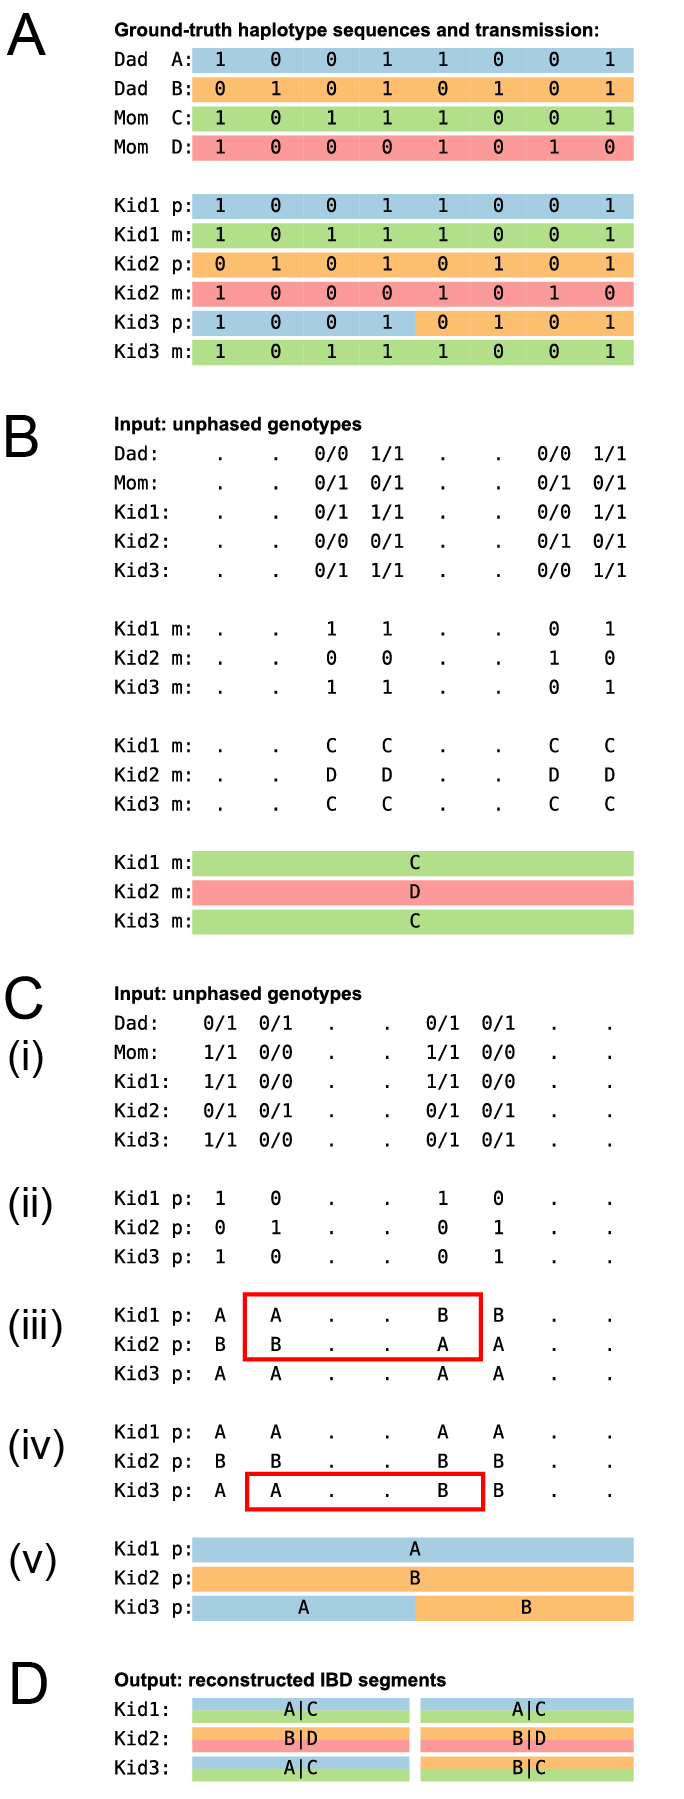
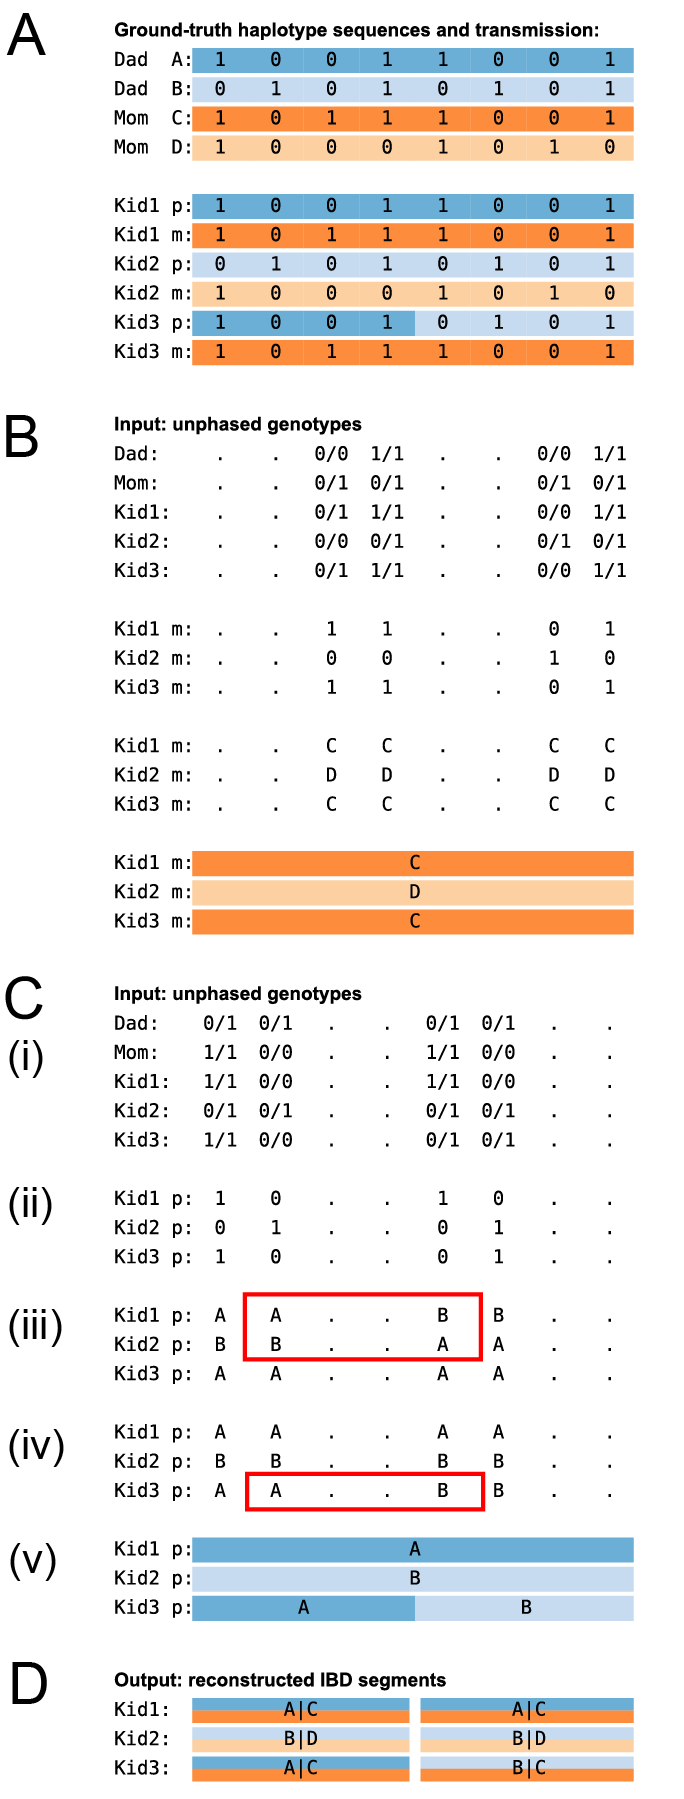
fig2: rerender on blue/orange palette; recombination caption fix
Fig 2 picks up the new HAP_PALETTE (medium/light blue for dad's A/B,
medium/light orange for mom's C/D) introduced in the prior fig1 commit.
The caption referenced the old palette explicitly — "Kid3's paternal
row switching from A (blue) to B (orange) at the recombination
breakpoint" — which is wrong under the new scheme (both A and B are
now blue). Updated to "A (dark blue) to B (light blue)" so the visual
cue for the recombination switch is shade-based and accurate. The same
stale comment was also fixed in the fig2.py docstring.

diff --git a/manuscript/fig2.py b/manuscript/fig2.py
@@ -14,7 +14,7 @@ stacks three panels with aligned columns:
      perform_flips_in_place step (fig4_1), which is a no-op on the
      maternal side and so is omitted there. A bottom track shows the
      ground-truth paternal haplotype (A/B); Kid3's row switches from A
-     (blue) to B (orange) at the paternal recombination.
+     (dark blue) to B (light blue) at the paternal recombination.
 
 Informative sites for each panel are the columns whose top-row cells
 are non-`.`. The trailing simulated site is dropped. PDFs are kept as

diff --git a/manuscript/fig2.md b/manuscript/fig2.md
@@ -1,3 +1,3 @@
 <img src="fig2.png" alt="Figure 2" width="350" align="left" style="margin-right: 1em;">
 
-**Figure 2. Tracking the transmission of haplotypes in a nuclear family.** **(A)** Ground truth — the haplotype sequences of the four founders, the two phased homologs that each kid inherited, and the single paternal recombination that occurred during transmission. Panels B–D below take only the unphased VCF genotypes as input and reconstruct, end-to-end, both the per-kid haplotype assignments and the recombination event shown here; panel D should be read as a direct reconstruction of panel A. The four founder haplotypes (Dad A, Dad B, Mom C, Mom D) are drawn as 0/1 cells (0 = REF allele at an SNV, 1 = ALT allele), followed by each kid's two phased homologs (paternal "p" row above maternal "m" row), with every cell colored by the founder haplotype it was inherited from. Kid3's paternal row switches from A to B mid-locus, marking a paternal recombination. **(B)** Maternal-side reconstruction from unphased data. Top: the unphased VCF genotypes for all five individuals, restricted to mom-informative sites (sites where mom is heterozygous and dad is homozygous). Middle-top: the raw maternally inherited allele extracted at each informative site. For example, if dad is 0/0 while mom is 0/1, then any child that also carries a 1 (Kid1 and Kid3 in this example) must have inherited mom’s 1-carrying homolog. Middle-bottom: at each informative site, partition kids by parental homologs, assigning the letter “C” to the majority class and “D” to the minority class. Bottom: Runs of identical letters across sites are collapsed into a single maternal IBD (Identity-By-Descent) segment — a contiguous region across which each kid's maternal haplotype assignment is constant — that each kid inherited. Compare with the ground truth in panel A. **(C)** Paternal-side reconstruction. Top three tables (i - iii) mirror those in panel B, except restricted to dad-informative sites and labelled A/B (majority/minority allele at each site). The red rectangle highlights two putative crossovers that occur at the same locus in two independent meioses. Given the low likelihood of this event (≪1 crossover/Mb/meiosis), we swap labels among kids at the informative sites after the crossover location (thereby preserving the partitioning established at those sites), yielding the more likely scenario of a single crossover among the three kids (red rectangle in iv). The reconstruction in (v) collapses runs of identical letters across sites into per-kid paternal IBD segments — contiguous regions across which each kid's paternal haplotype assignment is constant — and shows Kid3's paternal row switching from A (blue) to B (orange) at the recombination breakpoint, recovering the ground truth shown in panel A. **(D)** Bilateral IBD segments. For each kid, the parent-specific IBD segments from panels B and C are intersected to form bilateral IBD segments: contiguous regions across which both the paternal and maternal haplotype assignments are constant. Each segment is drawn as a labelled rectangle whose top half is filled with the paternal-letter colour and bottom half with the maternal-letter colour, with the founder-haplotype pair (e.g. "A|C") centred. A colour change in either half of any kid's row marks a bilateral-segment boundary that is registered across all three kids, so Kid3's paternal recombination splits every row at the same locus into two adjacent rectangles of identical width — Kid3 transitions from "A|C" to "B|C" while Kid1 ("A|C") and Kid2 ("B|D") repeat their pair across both segments. Aligning the segment boundaries this way makes explicit that "IBD segment" denotes the same contiguous region for every kid, a convention reused without redefinition by Fig 3E. Panel D thereby recovers, from unphased VCF genotypes alone, the per-kid haplotype transmission and the paternal recombination drawn as ground truth in panel A. **Conventions used throughout the manuscript.** In any two-stripe block label, the pipe (`|`) separates the paternal founder (left) from the maternal founder (right); correspondingly, the top stripe of the rectangle is filled with the paternal founder's colour (A or B) and the bottom stripe with the maternal founder's colour (C or D). These conventions are reused, without redefinition, by Fig 4.
+**Figure 2. Tracking the transmission of haplotypes in a nuclear family.** **(A)** Ground truth — the haplotype sequences of the four founders, the two phased homologs that each kid inherited, and the single paternal recombination that occurred during transmission. Panels B–D below take only the unphased VCF genotypes as input and reconstruct, end-to-end, both the per-kid haplotype assignments and the recombination event shown here; panel D should be read as a direct reconstruction of panel A. The four founder haplotypes (Dad A, Dad B, Mom C, Mom D) are drawn as 0/1 cells (0 = REF allele at an SNV, 1 = ALT allele), followed by each kid's two phased homologs (paternal "p" row above maternal "m" row), with every cell colored by the founder haplotype it was inherited from. Kid3's paternal row switches from A to B mid-locus, marking a paternal recombination. **(B)** Maternal-side reconstruction from unphased data. Top: the unphased VCF genotypes for all five individuals, restricted to mom-informative sites (sites where mom is heterozygous and dad is homozygous). Middle-top: the raw maternally inherited allele extracted at each informative site. For example, if dad is 0/0 while mom is 0/1, then any child that also carries a 1 (Kid1 and Kid3 in this example) must have inherited mom’s 1-carrying homolog. Middle-bottom: at each informative site, partition kids by parental homologs, assigning the letter “C” to the majority class and “D” to the minority class. Bottom: Runs of identical letters across sites are collapsed into a single maternal IBD (Identity-By-Descent) segment — a contiguous region across which each kid's maternal haplotype assignment is constant — that each kid inherited. Compare with the ground truth in panel A. **(C)** Paternal-side reconstruction. Top three tables (i - iii) mirror those in panel B, except restricted to dad-informative sites and labelled A/B (majority/minority allele at each site). The red rectangle highlights two putative crossovers that occur at the same locus in two independent meioses. Given the low likelihood of this event (≪1 crossover/Mb/meiosis), we swap labels among kids at the informative sites after the crossover location (thereby preserving the partitioning established at those sites), yielding the more likely scenario of a single crossover among the three kids (red rectangle in iv). The reconstruction in (v) collapses runs of identical letters across sites into per-kid paternal IBD segments — contiguous regions across which each kid's paternal haplotype assignment is constant — and shows Kid3's paternal row switching from A (dark blue) to B (light blue) at the recombination breakpoint, recovering the ground truth shown in panel A. **(D)** Bilateral IBD segments. For each kid, the parent-specific IBD segments from panels B and C are intersected to form bilateral IBD segments: contiguous regions across which both the paternal and maternal haplotype assignments are constant. Each segment is drawn as a labelled rectangle whose top half is filled with the paternal-letter colour and bottom half with the maternal-letter colour, with the founder-haplotype pair (e.g. "A|C") centred. A colour change in either half of any kid's row marks a bilateral-segment boundary that is registered across all three kids, so Kid3's paternal recombination splits every row at the same locus into two adjacent rectangles of identical width — Kid3 transitions from "A|C" to "B|C" while Kid1 ("A|C") and Kid2 ("B|D") repeat their pair across both segments. Aligning the segment boundaries this way makes explicit that "IBD segment" denotes the same contiguous region for every kid, a convention reused without redefinition by Fig 3E. Panel D thereby recovers, from unphased VCF genotypes alone, the per-kid haplotype transmission and the paternal recombination drawn as ground truth in panel A. **Conventions used throughout the manuscript.** In any two-stripe block label, the pipe (`|`) separates the paternal founder (left) from the maternal founder (right); correspondingly, the top stripe of the rectangle is filled with the paternal founder's colour (A or B) and the bottom stripe with the maternal founder's colour (C or D). These conventions are reused, without redefinition, by Fig 4.
